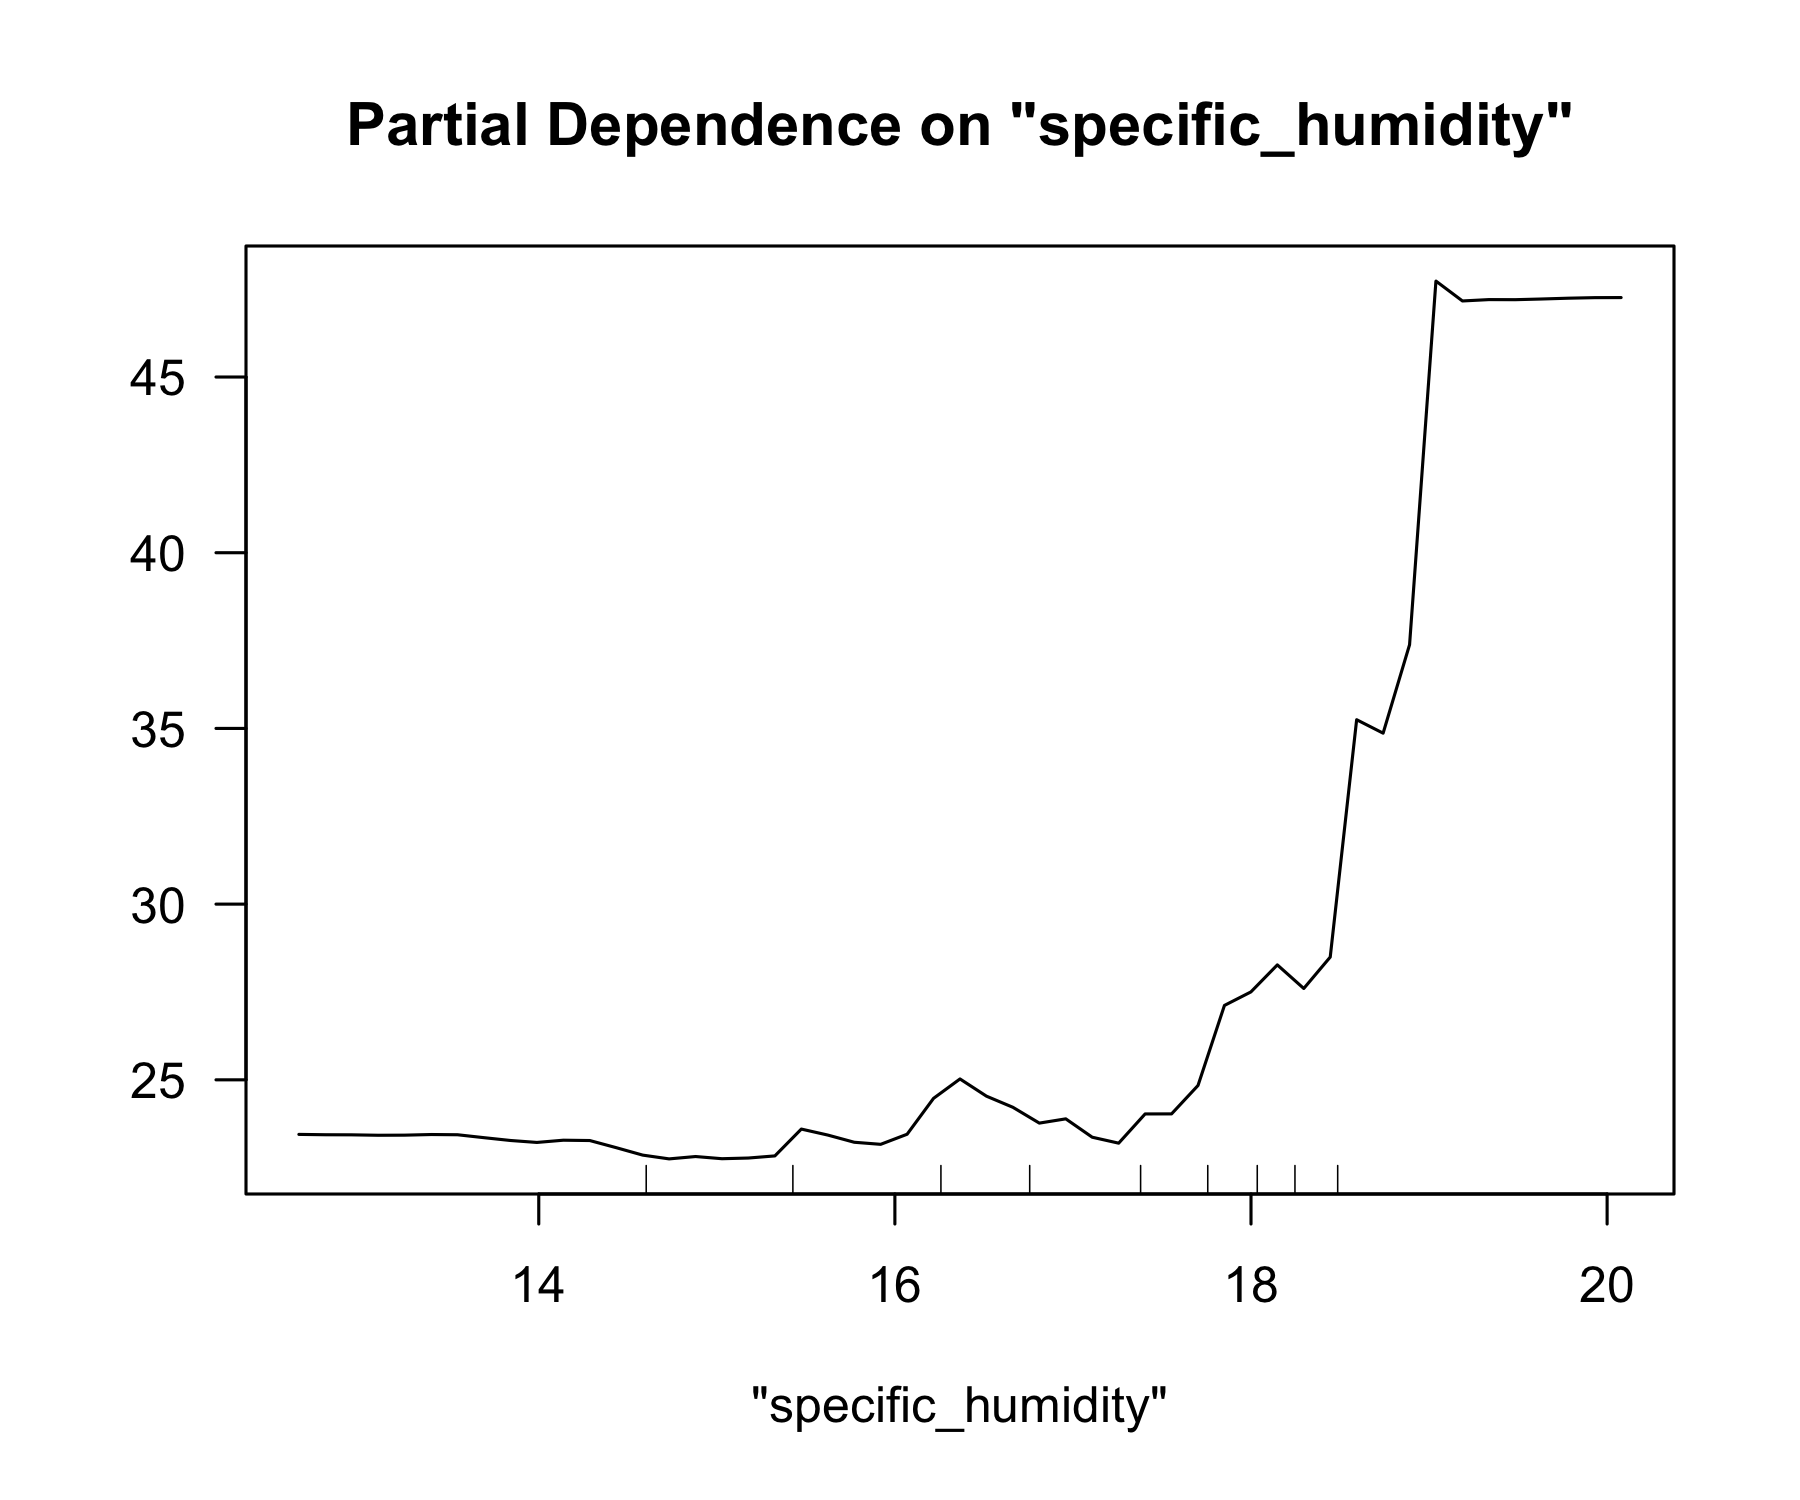
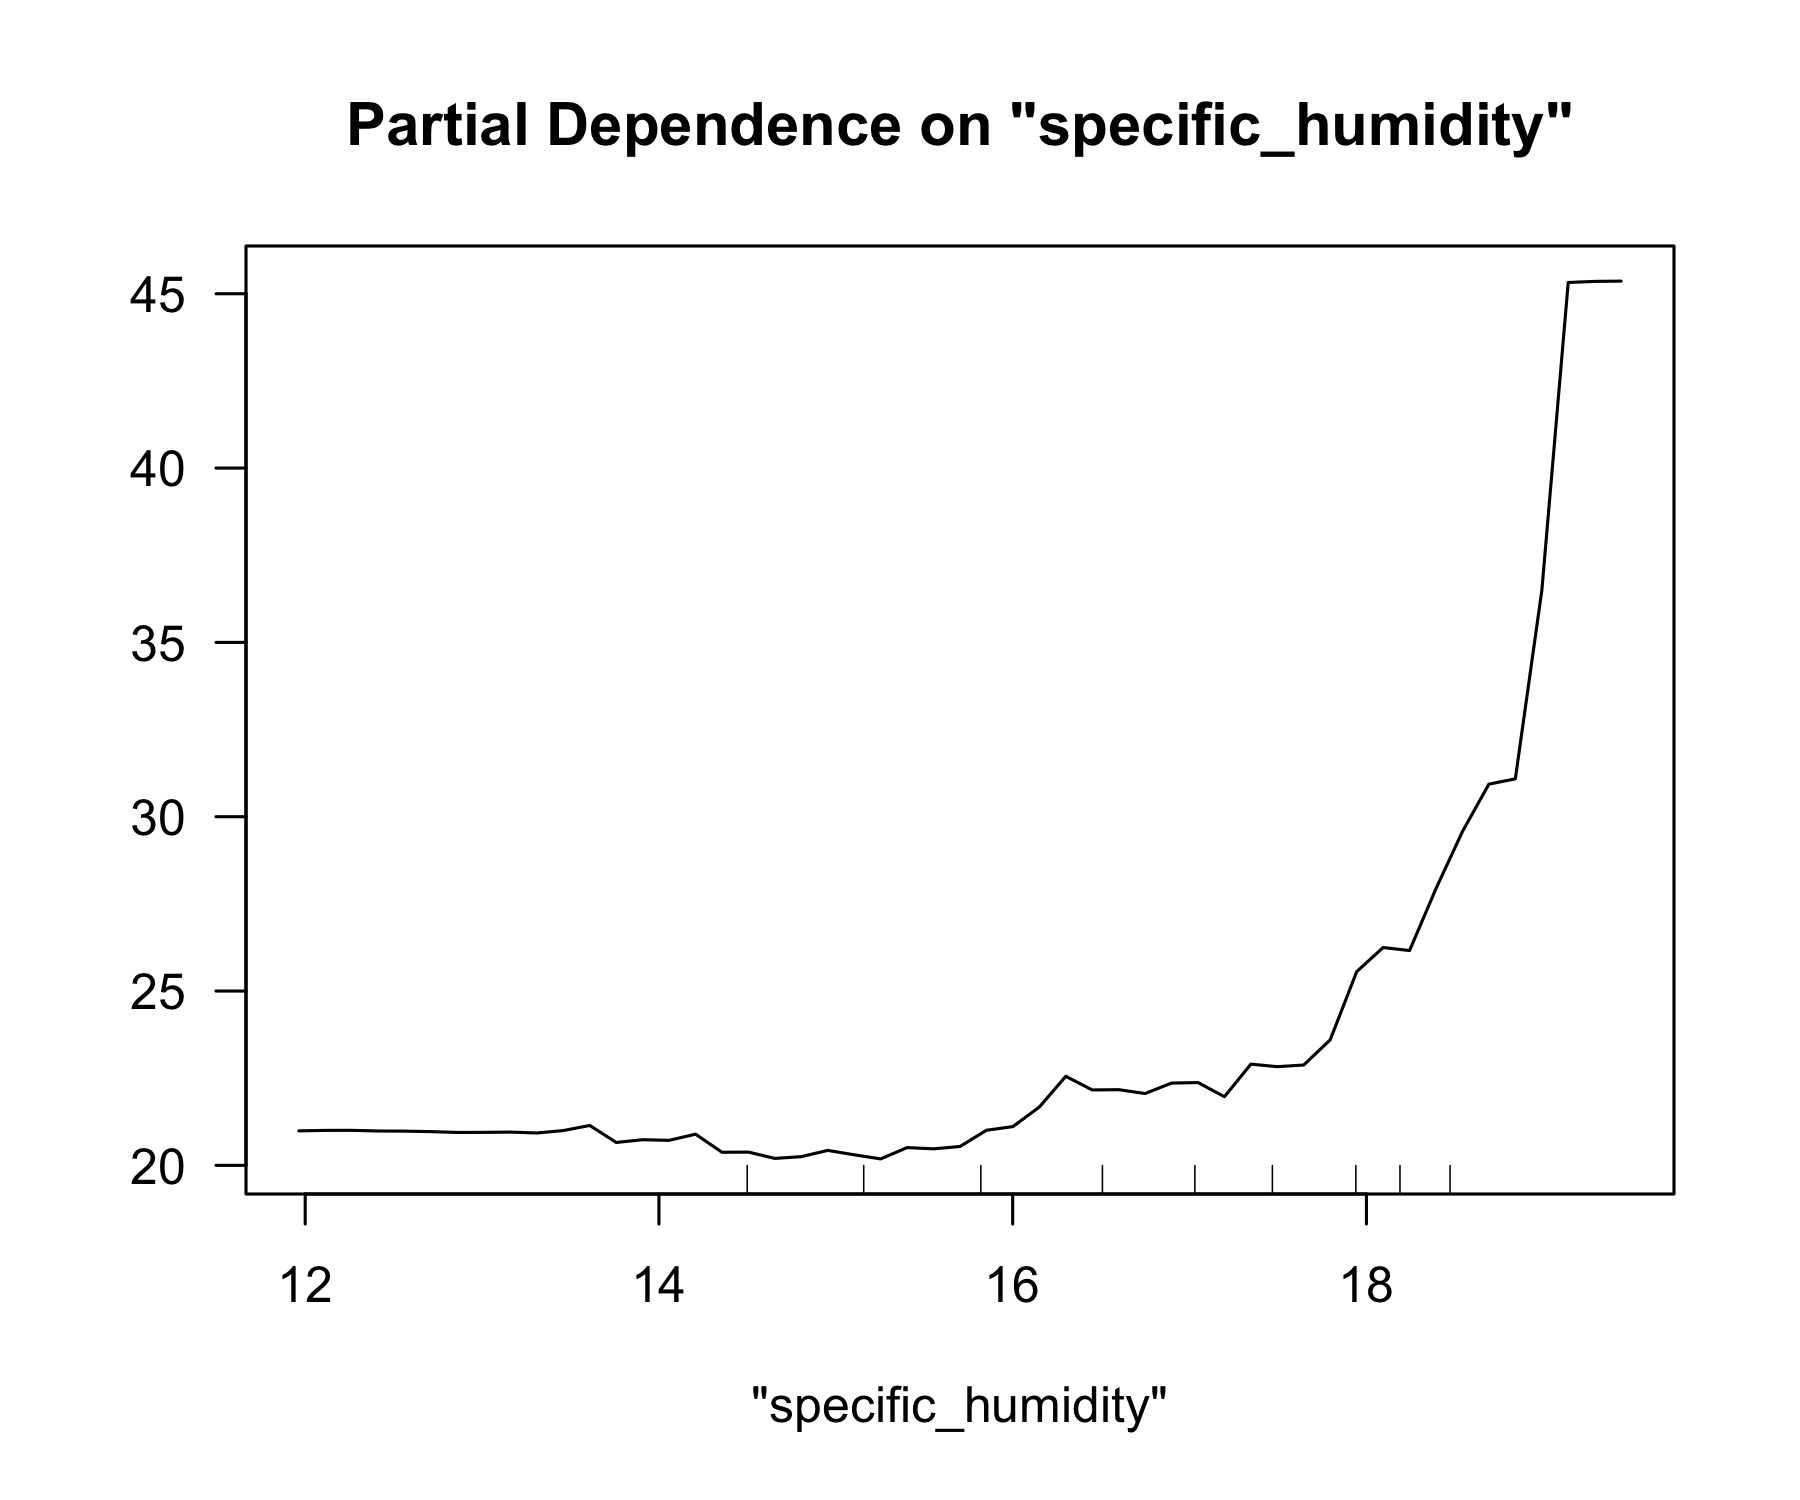
map changes

diff --git a/ECO395_Exercises_03.md b/ECO395_Exercises_03.md
@@ -92,10 +92,10 @@ dengue_boost = gbm(total_cases ~ season + city + specific_humidity + precipitati
 
 | Model            |     RMSE |
 |:-----------------|---------:|
-| Tree             | 24.92751 |
-| Pruned Tree      | 24.82462 |
-| Random Forest    | 24.38226 |
-| Gradient Boosted | 24.98472 |
+| Tree             | 25.83480 |
+| Pruned Tree      | 26.01827 |
+| Random Forest    | 23.45411 |
+| Gradient Boosted | 23.51912 |
 
 The best performing model was the random forest model. Below are partial
 dependence plots for `specific_humidity`,
@@ -169,14 +169,14 @@ simpler model.
 
 ### Results
 
-| Model                 |      RMSE |
-|:----------------------|----------:|
-| Linear Model          | 1035.8559 |
-| Modified Linear Model | 1020.8357 |
-| Tree                  |  981.5698 |
-| Pruned Tree           | 1009.7719 |
-| Random Forest         |  759.0505 |
-| Gradient Boosted      |  919.1550 |
+| Model                 |     RMSE |
+|:----------------------|---------:|
+| Linear Model          | 956.1415 |
+| Modified Linear Model | 944.6540 |
+| Tree                  | 911.9831 |
+| Pruned Tree           | 982.1575 |
+| Random Forest         | 706.2270 |
+| Gradient Boosted      | 865.6309 |
 
 When estimating the out-of-sample accuracy, my modified linear model
 improved over the original one, and fairly similarly with the other
@@ -232,12 +232,12 @@ tree model. I also ran a random forest and gradient boosted model.
 
 | Model                 |     RMSE |
 |:----------------------|---------:|
-| Linear Model          | 77033.58 |
-| Modified Linear Model | 75572.01 |
-| Tree                  | 80433.96 |
-| Pruned Tree           | 80941.97 |
-| Random Forest         | 66585.93 |
-| Gradient Boosted      | 67564.51 |
+| Linear Model          | 76507.35 |
+| Modified Linear Model | 75087.72 |
+| Tree                  | 78765.71 |
+| Pruned Tree           | 79846.85 |
+| Random Forest         | 66315.73 |
+| Gradient Boosted      | 66843.94 |
 
 Again, the modified linear model outperformed original linear models and
 even the tree models.However, the random forest model performed the best
